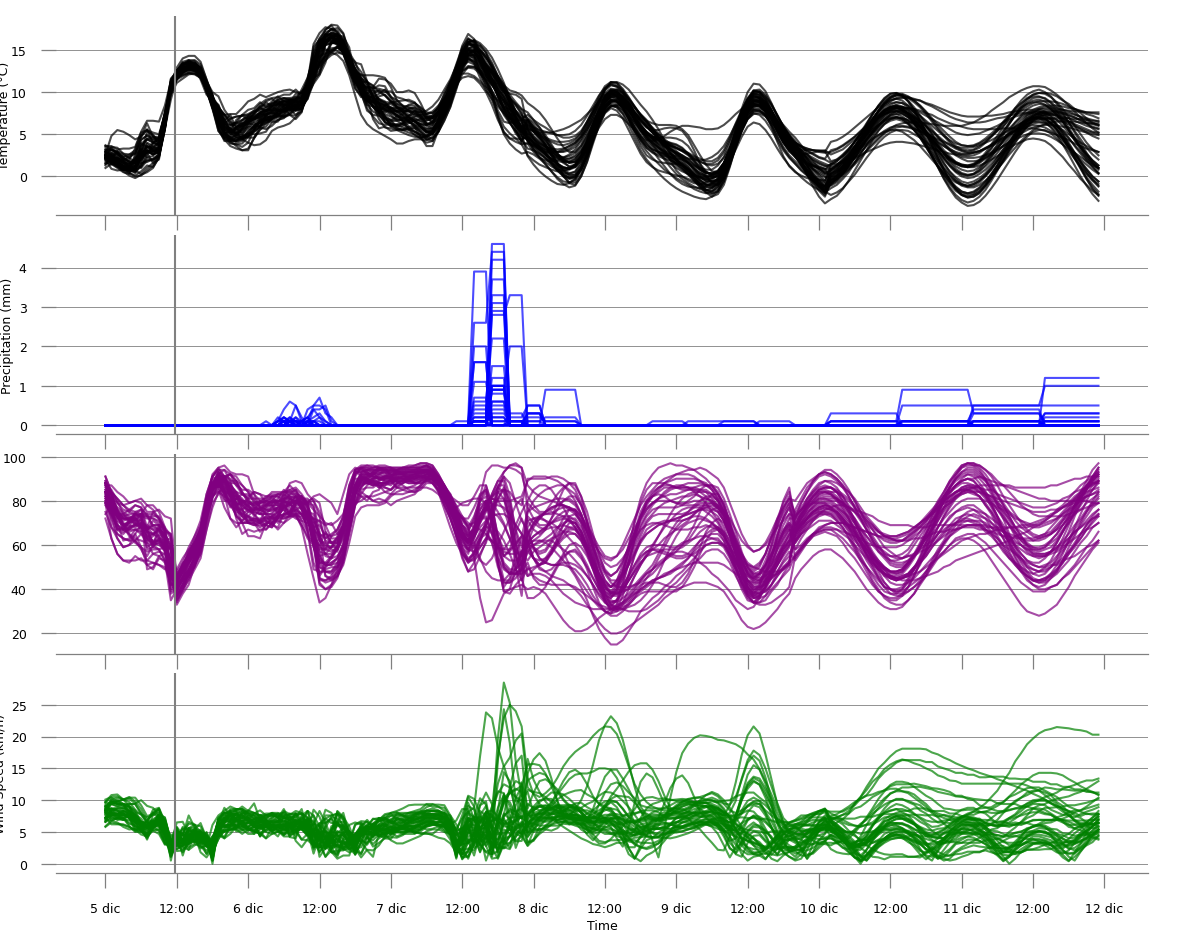
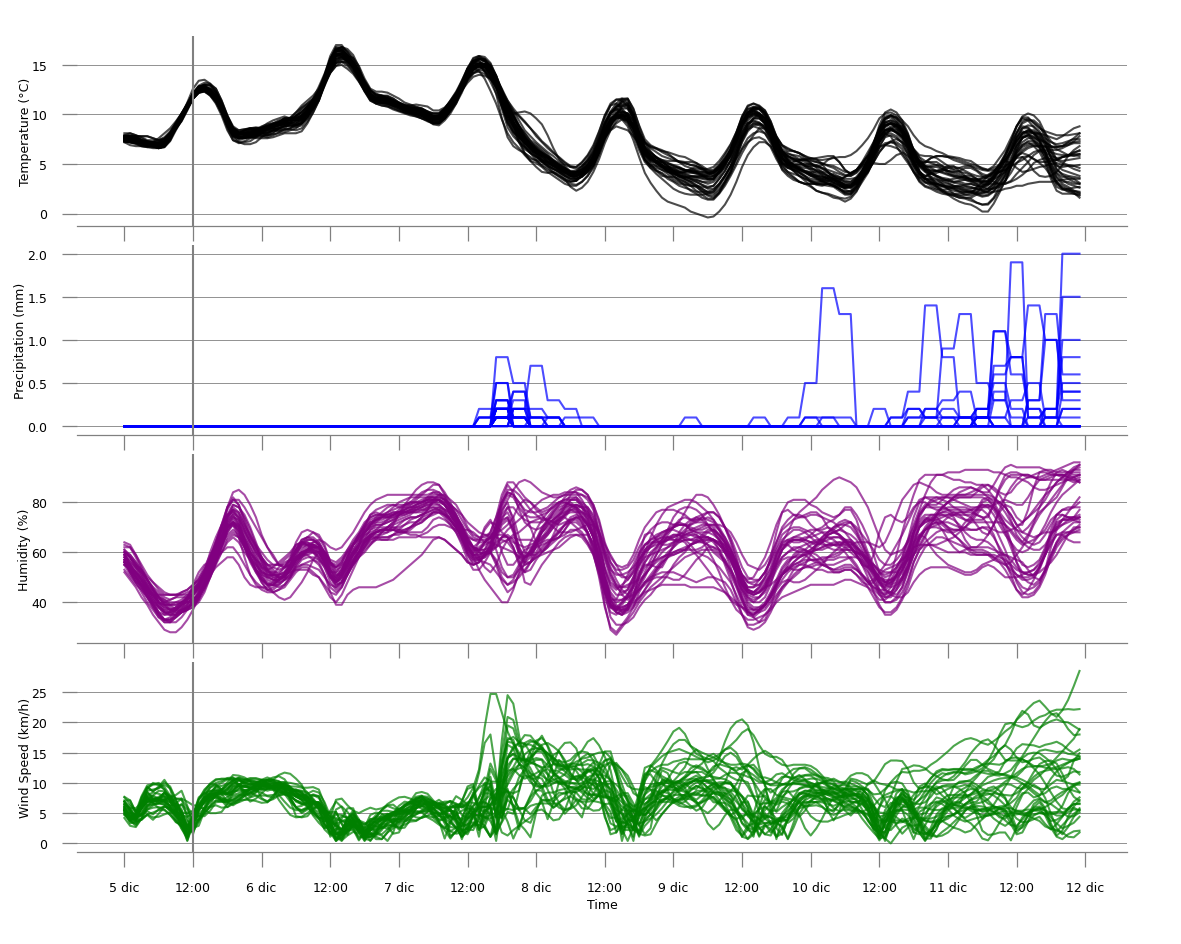
put gfs by default

diff --git a/app_ensemble.py b/app_ensemble.py
@@ -16,8 +16,11 @@ scheduler = BackgroundScheduler()
 
 lat = 41.97
 lon = 2.38
-model = "icon_seamless"
-members = 40
+model = "gfs_seamless" #"icon_seamless" # "gfs_seamless"
+if model == "gfs_seamless":
+  members = 31
+if model == "icon_seamless":
+  members = 40
 def fetch_data():
     # Step 1: Fetch data from the API
     url = "https://ensemble-api.open-meteo.com/v1/ensemble"
